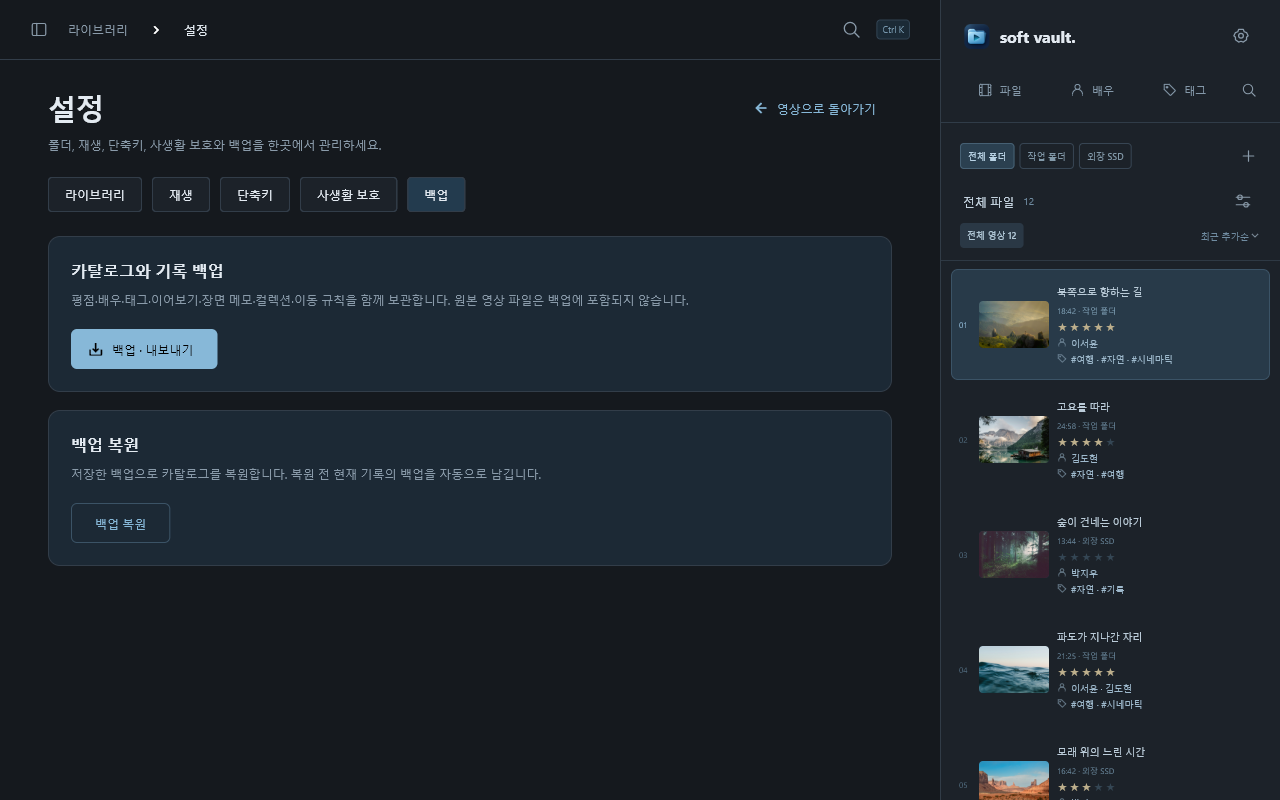
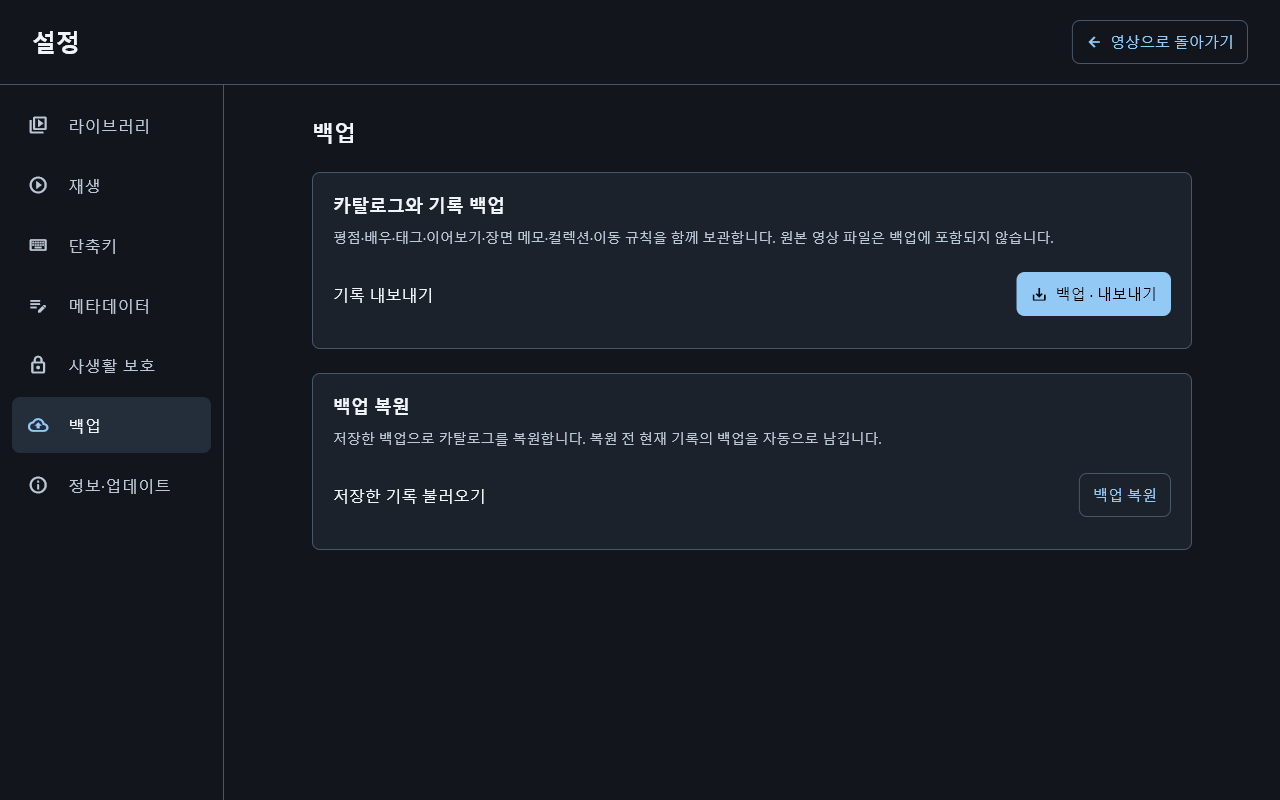
Update 0.3.0 manual and native application screenshots

diff --git a/docs/screenshots/README.md b/docs/screenshots/README.md
@@ -1,23 +1,19 @@
 # 사용자 매뉴얼 스크린샷
 
-README의 이미지는 샘플 자료를 사용하는 실제 Windows·Mac 네이티브 Flutter 앱에서 캡처했다. HTML 디자인 시안을 앱 실행 화면으로 사용하지 않았다. 1280 × 800 클라이언트 영역이며 창 테두리는 포함하지 않는다. Windows 촬영일은 2026-11-08, Mac 촬영일은 2026-11-09이다. 파일별 시각·원본 경로·SHA-256은 [manifest.json](manifest.json)에 보존한다.
+README의 이미지는 합성 카탈로그·샘플 영상을 사용하는 실제 Windows·Mac Flutter 앱에서 캡처했습니다. HTML 시안을 앱 실행 화면으로 사용하지 않았습니다. 2026-11-11, 0.3.0+4 후보의 1280 × 800 클라이언트 영역이며 창 테두리는 포함하지 않습니다. 파일별 촬영 시각·원본 경로·소스 커밋·SHA-256은 [manifest.json](manifest.json)에 기록합니다.
 
 | 파일 | 화면 | 생성 테스트 |
 | --- | --- | --- |
 | library.png | 영상 목록과 미리보기 | design_parity_test |
 | settings-library.png | 라이브러리 설정 | design_parity_test |
 | actors.png | 배우 전체와 목록 | design_parity_test |
-| playback.png | 실제 영상 재생 | app_playback_test |
-| macos-playback.png | Mac mini M4 실제 영상 재생 | app_playback_test |
+| playback.png | Windows 영상 재생 | app_playback_test |
+| macos-playback.png | Mac mini M4 영상 재생 | app_playback_test |
 | details.png | 상세정보 읽기 화면 | design_parity_test |
 | scenes.png | 장면 북마크 | extended_flow_test |
 | privacy.png | 사생활 보호 설정 | privacy_flow_test |
 | backup.png | 카탈로그 백업과 복원 | design_parity_test |
 
-테스트 카탈로그의 제목·배우·태그는 샘플 데이터다. 라이브러리 화면의 영상 설명과 썸네일은 디자인 비교용 fixture이며, 표시된 4K·HEVC 정보만으로 해당 코덱 재생을 증명하지 않는다. 재생 화면은 샘플 영상의 실제 디코딩 결과다. 원본 사진·샘플 미디어의 출처는 [외부 구성 요소 고지](../../THIRD_PARTY_NOTICES.txt)를 함께 확인한다.
+모든 이미지는 debug 모드의 네이티브 통합 검사에서 촬영했습니다. 소스 4493ead 이후 1ece9fb에서는 메뉴 위치와 스크롤을 반영하는 시나리오 테스트만 바뀌었고 앱 코드는 동일합니다.
 
-변경되지 않은 Windows 화면을 재사용했으며, 이 이미지를 이후 릴리즈 후보나 Mac에서 새로 촬영한 것처럼 표시하지 않는다. 스크린샷은 사용법 설명 자료이고 배포 파일의 검증 증거는 별도의 검증 기록으로 관리한다.
-
-문서 작성 방식은 같은 작업 공간의 perilog·tempos README 작성 가이드에서 설치부터 실제 작업까지 안내하는 순서, 화면 가까이 배치한 이미지, 샘플 데이터 사용, 캡처 출처 기록 원칙을 참고했다. 다른 앱의 화면이나 테스트 결과는 복사하지 않았다.
-
-설정 전용 화면: `settings-library.png`는 `integration_test/settings_native_review_test.dart`의 Windows profile 실제 Flutter 화면(1280×800)에서 촬영했다. 격리된 테스트 카탈로그의 두 폴더를 사용했다. 새 왼쪽 분류 메뉴와 설정 본문의 배치를 보여준다.
+화면의 제목·배우·태그·설명은 합성 자료입니다. 디자인 비교용 썸네일과 4K·HEVC 표시는 해당 코덱 재생 증거가 아닙니다. 재생 화면은 샘플 영상의 실제 디코딩 결과입니다. [외부 구성 요소 고지](../../THIRD_PARTY_NOTICES.txt)와 [후보 검증 기록](../releases/v0.3.0/VERIFICATION.md)을 함께 확인하세요.

diff --git a/docs/release.md b/docs/release.md
@@ -192,8 +192,15 @@ SQLite와 JSON 백업 버전을 4로 올렸다. `media.play_count`와 `playback_
 
 ## AI 전체 영상정보 교환
 
-목록 툴바에서 내보내기·입력하기 대화상자를 연다. `MetadataExchange`는 전체 video 행의 허용된 메타데이터만 JSON으로 내보내고 settings에 요청 식별값과 원본 스냅샷을 보관한다. 새 DB 마이그레이션은 없다. 요청문은 앱 안에서 확인·복사할 수 있고 파일 저장과 붙여넣기·JSON 파일 입력을 지원한다.
+설정 → 메타데이터 → 영상정보 교환에서 내보내기·입력·변경 검토·완료 순서로 진행한다. `MetadataExchange`는 전체 video 행의 허용된 메타데이터만 JSON으로 내보내고 settings에 요청 식별값과 원본 스냅샷을 보관한다. 새 DB 마이그레이션은 없다. 요청문은 앱 안에서 확인·복사할 수 있고 파일 저장과 붙여넣기·JSON 파일 입력을 지원한다.
 
 결과는 요청 식별값과 영상 식별값으로 검증하며 코드 블록 JSON을 허용한다. 누락·빈 값은 유지하고 배우·태그는 선택 시 최종 목록으로 교체한다. 적용은 자동 백업 이후 한 트랜잭션에서 요청 유효성과 원본 메타데이터·지문을 다시 확인한다. 성공 시 요청을 소진하고 목록을 갱신한다. 실패 시 모든 변경을 롤백한다. 기존 NFO 기능은 유지한다.
 
 검증: 정적 분석 통과, 일반 회귀 77개 통과·1개 건너뛰기. `metadata_exchange_test.dart`에서 전체 내보내기의 개인 필드 제외, 동일 파일명 구분, 재시작 후 요청 보존, 선택 적용과 관계 테이블 갱신, 자동 백업 생성, 중복·알 수 없는 ID·누락·이전 요청, 원본 변경 충돌과 SQL 실패의 전체 롤백을 확인했다. 1000×700 위젯 검사에서 가이드, 탭 전환, 비교 및 선택 해제를 확인했다. 외부 AI 서비스의 조사 정확성이나 응답 길이 제한은 이 검사 범위가 아니다.
+
+
+## 0.3.0 배우 이미지 교환
+
+AI 요청문은 영상의 배우 이름과 일치하는 `actorImages: [{name, imageUrl}]`도 요청한다. 공개 HTTPS 직접 이미지 주소만 받으며 검토 화면에서 사용자가 불러온 뒤 개별 선택한다. 다운로드는 크기·시간·공개 주소를 제한하고 실제 디코딩 후 최대 1024px PNG로 저장한다. 적용 전 자동 백업, 배우 이미지 동시 수정 검사, 실패 시 DB 롤백과 새 이미지 파일 정리를 수행한다. 기존 이미지 파일은 삭제하지 않는다. 이미지 없는 이전 JSON도 사용할 수 있고 이미지 다운로드 실패는 영상정보 적용을 막지 않는다.
+
+`metadata_actor_image_test.dart`는 선택 저장·다운로드 실패·새 배우 선택 누락·동시 수정·잘못된 주소를 검사하고, `metadata_exchange_test.dart`는 확대 글자에서 검토 화면 접근과 미확인 이미지 선택 방지를 검사한다. 실제 후보 통과 여부는 [0.3.0 검증 기록](releases/v0.3.0/VERIFICATION.md)에 기록한다.

diff --git a/docs/privacy-and-data.md b/docs/privacy-and-data.md
@@ -38,3 +38,10 @@ DB 비교는 일관된 스냅샷 또는 앱을 종료하고 필요한 WAL까지 
 [privacy_lock_test.dart](../test/privacy_lock_test.dart)는 검증값·salt·재시작·동시 시도·변경/해제·백업 분리를 검사한다. [privacy_flow_test.dart](../integration_test/privacy_flow_test.dart)는 gate·UI·대기·오류·재생 중 잠금을 검사한다. 설치 사본 진단은 배포된 CNG·SQLite 경로를 확인한다.
 
 시험 비밀번호는 임시 데이터에만 사용한다. 공개 캡처·로그에는 사용자 영상 제목·실제 경로·비밀번호·개인키·인증 토큰을 넣지 않는다. 원격 SSH 공개키 등록과 앱 시작 비밀번호는 별개이며, 전역 접속 정보는 저장소 밖에서 관리한다.
+
+
+## AI 정보 교환과 배우 이미지
+
+AI 요청문 복사는 모든 영상의 파일명·제목·배우·태그·설명을 포함하며, 사용자가 외부 AI에 직접 전달한다. 전체 경로·개인 메모·평점·재생 기록·영상 파일은 포함하지 않는다. 앱이 외부 AI에 자동 업로드하지 않는다.
+
+반환된 배우 이미지 주소에서 **이미지 불러오기**를 누르면 해당 HTTPS 서버로 다운로드 요청이 전송된다. 서버에는 일반 네트워크 연결 정보가 전달된다. 이미지 적용을 체크하고 저장하면 검증된 PNG 파일을 앱 데이터의 `actor-images`에 보관한다. 카탈로그 JSON 백업은 이 파일의 바이트를 포함하지 않으므로 다른 기기로 옮길 때 이미지 파일도 별도로 보존해야 한다.

diff --git a/docs/e2e.md b/docs/e2e.md
@@ -28,6 +28,7 @@
 | SV-10 | 백업·손상 JSON·없는 참조·구버전 복원 | 정상 왕복, 실패 시 기존 카탈로그 유지, 잠금 정보 독립 | `library_test`, `scenario_regression_test`, `privacy_lock_test` |
 | SV-11 | 첫 비밀번호 설정·틀린 확인·재시작·오입력·변경·해제·지금 잠그기 | 인증 전 목록/플레이어 없음, 대기 영속, 현재 암호 확인, 재생 정지·0% | `privacy_lock_test`, `privacy_flow_test` |
 | SV-12 | 통합 설정 탐색·단축키 변경·작은 창·전체화면·복원 | 입력·설정 유지, 버튼 접근 가능, 앱 바깥 검은 띠 없음 | `key_bindings_test`, `scenario_flow_test`, `design_parity_test` |
+| SV-14 | AI 영상정보·배우 이미지 검토와 선택 적용 | 개인 필드 제외, 미확인 이미지 선택 방지, 실패 시 영상정보만 적용, 충돌 시 전체 롤백·임시 파일 정리 | `metadata_exchange_test`, `metadata_actor_image_test`, `metadata_exchange_flow_test` |
 | SV-13 | 1만 목록·빠른 영상 전환·반복 최소화·동시 파일 작업 | 상한 충족, 데이터 무결성, 종료 후 잔류 작업 확인 | `stress_flow_test`, `stress_scenarios_test`, 부하 검사 |
 
 서비스 파일은 `test/<이름>.dart`, UI 파일은 `integration_test/<이름>.dart`에 있다. 현재 코덱 자료는 11개 파일이며 한 테스트 안에서 여러 코덱을 확인한다. 이를 11개의 독립 E2E로 집계하지 않는다.
